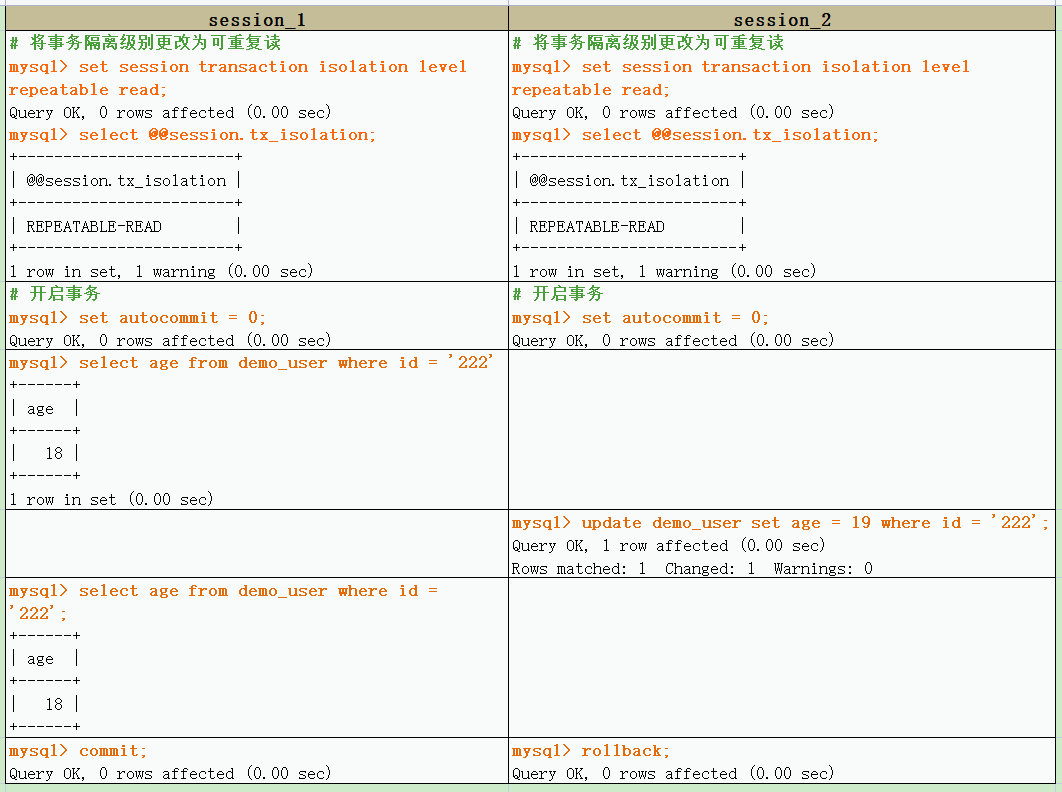
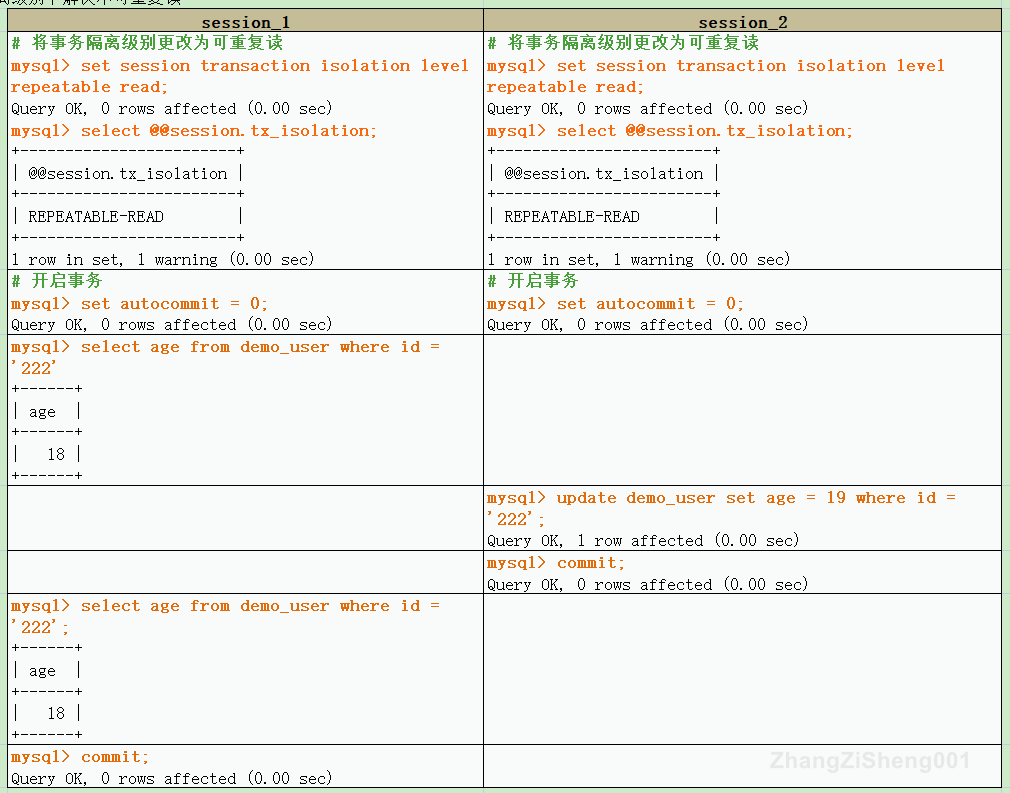
简单聊聊mysql的脏读、不可重复读--更正

Changed region(s): [[0.0, 0.0, 1.0, 1.0]]

diff --git a/简单聊聊mysql的脏读、不可重复读.md b/简单聊聊mysql的脏读、不可重复读.md
@@ -97,7 +97,7 @@ insert  into `demo_user`(`id`,`name`,`gender`,`age`,`gmt_create`,`gmt_modified`,
 
 第二种方案，**将事务隔离级别更改为可重复读（repeatable read）**。第一种方案中，读写是串行的，然而，我们既要读写并行，又不想出现不可重复读。于是，就有了第二种方案。如下：
 
-![mysql_lock_07.png](https://img2020.cnblogs.com/blog/1731892/202112/1731892-20211224133620014-140792221.png)
+![mysql_lock_07.png](https://img2020.cnblogs.com/blog/1731892/202112/1731892-20211224165728234-546157055.png)
 
 可以看到，会话 1 的读操作并没有加锁，会话 2 的写操作也不需要等待，最终却没有产生不可重复读。如何实现的呢？
 
